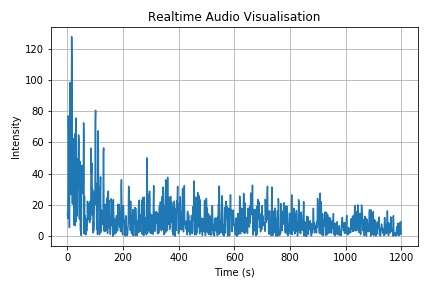
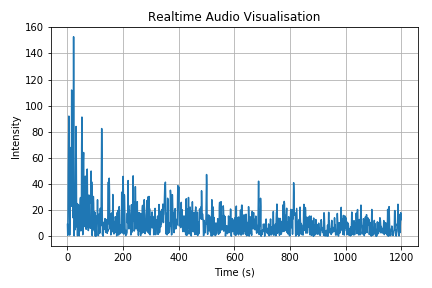
running visualisation

Changed region(s): [[0.0602, 0.125, 0.963, 0.8438], [0.0602, 0.0625, 0.1204, 0.125], [0.0602, 0.25, 0.0903, 0.3125]]

diff --git a/run.py b/run.py
@@ -1,38 +1,57 @@
 import time
 import numpy as np
 import matplotlib.pyplot as plt
+from matplotlib import animation, rc
 from pyaudio import PyAudio, paInt16
 
-RATE = 48000 # time resolution of the recording device (Hz)
-CHUNK = int(RATE/20) # RATE / number of updates per second)
+RATE = 48000  # time resolution of the recording device (Hz)
+CHUNK = int(RATE / 20)  # RATE / number of updates per second)
 
-def soundplot(stream):
-    t = time.time()
-    data = np.fromstring(stream.read(CHUNK, exception_on_overflow = False), dtype=np.int16)
-    data = data * np.hanning(len(data)) # smooth the FFT by windowing data
-    fft = abs(np.fft.fft(data).real)
-    fft = fft[:int(len(fft)/2)] # keep only first half
 
-    plt.plot(fft)
-    plt.xlabel('Time (s)')
-    plt.ylabel('Intensity')
-    plt.title('Realtime Audio Visualisation')
+class Microphone():
 
-    #plt.ylim([-2**16,2**16])
-    plt.grid(True)
-    plt.tight_layout()
-    plt.savefig('wave.png')
+    def __init__(self):
+        plt.xlabel('Time (s)')
+        plt.ylabel('Intensity')
+        plt.title('Realtime Audio Visualisation')
+        plt.ylim([0, 2**16])
+        plt.grid(True)
 
-    plt.close('all')
+    def __call__(self, stream):
+        data = np.fromstring(stream.read(
+            CHUNK, exception_on_overflow=False), dtype=np.int16)
+        data = data * np.hanning(len(data))
+        fft = abs(np.fft.fft(data).real)
+        fft = fft[:int(len(fft) / 2)]
+        return fft
+
+
+def animate(fft):
+    ax.clear()
+    return ax.plot(fft, '-')
+
+def frames(stream):
+    while True:
+        yield microphone(stream)
 
 if __name__ == "__main__":
-    p = PyAudio() # start the PyAudio class
-    stream = p.open(format=paInt16, channels=1, rate=RATE, input=True, frames_per_buffer=CHUNK) # uses default input device
+    pa = PyAudio()
+    stream = pa.open(format=paInt16,
+                     channels=1,
+                     rate=RATE,
+                     input=True,
+                     frames_per_buffer=CHUNK)
 
-    # create a numpy array holding a single read of audio data
-    for i in range(int(20*RATE/CHUNK)):
-        soundplot(stream)
+    fig = plt.figure()
+    ax = fig.add_subplot(1,1,1)
+    microphone = Microphone()
+    anim = animation.FuncAnimation(
+        fig, animate, frames=frames(stream), interval=10)
+    plt.show()
 
-    stream.stop_stream()
-    stream.close()
-    p.terminate()
+    # for i in range(int(20*RATE/CHUNK)):
+    #    soundplot(stream)
+
+    # stream.stop_stream()
+    # stream.close()
+    # pa.terminate()

diff --git a/test.py b/test.py
@@ -1,0 +1,32 @@
+"""
+=================
+An animated image
+=================
+
+This example demonstrates how to animate an image.
+"""
+import numpy as np
+import matplotlib.pyplot as plt
+import matplotlib.animation as animation
+
+fig = plt.figure()
+
+
+def f(x, y):
+    return np.sin(x) + np.cos(y)
+
+x = np.linspace(0, 2 * np.pi, 120)
+y = np.linspace(0, 2 * np.pi, 100).reshape(-1, 1)
+
+im = plt.imshow(f(x, y), animated=True)
+
+
+def updatefig(*args):
+    global x, y
+    x += np.pi / 15.
+    y += np.pi / 20.
+    im.set_array(f(x, y))
+    return im,
+
+ani = animation.FuncAnimation(fig, updatefig, interval=50, blit=True)
+plt.show()

diff --git a/cpython.py b/cpython.py
@@ -1,0 +1,25 @@
+from pyaudio import PyAudio, paFloat32
+
+RATE = 48000
+CHUNK = 1024
+
+pa = PyAudio()
+
+stream = pa.open(format = paFloat32,
+                 channels = 1,
+                 rate = RATE,
+                 input = True,
+                 frames_per_buffer = CHUNK,
+                 stream_callback = callback)
+
+while stream.is_active():
+    sleep(0.1)
+
+stream.close()
+pa.terminate()
+
+
+
+
+
+# Ref: http://bastibe.de/2012-11-02-real-time-signal-processing-in-python.html
